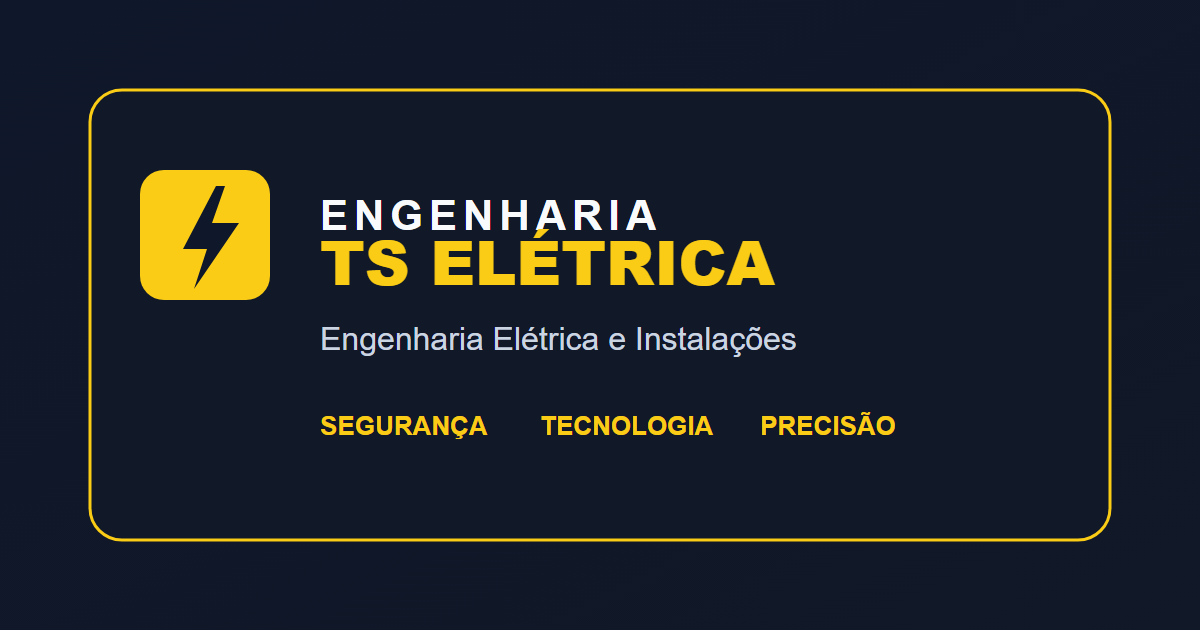
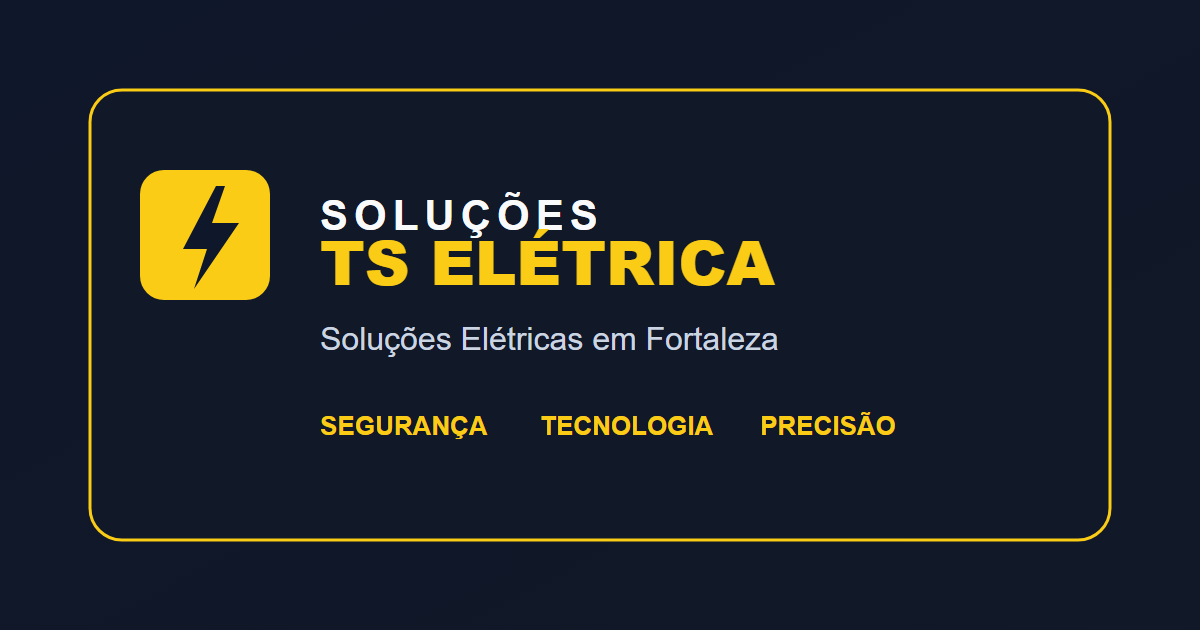
Renomeia titulo/marca para "TS Eletrica | Solucoes Eletricas em Fortaleza"
- Atualiza title, H1, og:title/description, twitter:title/description e manifest
- Atualiza texto da imagem de compartilhamento (og-image) para o novo nome
- Atualiza texto alternativo da logo no header e footer

Changed region(s): [[0.2467, 0.5127, 0.6783, 0.573], [0.2467, 0.3016, 0.555, 0.3921]]

diff --git a/index.html b/index.html
@@ -8,7 +8,7 @@
     <meta name="author" content="TS Elétrica" />
     <meta
       name="description"
-      content="TS Elétrica - Engenharia Elétrica em Fortaleza, CE. Soluções, instalações, manutenção e atendimento elétrico emergencial 24h. Solicite seu orçamento."
+      content="TS Elétrica - Soluções Elétricas em Fortaleza, CE. Instalações, manutenção e atendimento elétrico emergencial 24h. Solicite seu orçamento."
     />
     <meta
       name="keywords"
@@ -16,25 +16,25 @@
     />
     <meta property="og:type" content="website" />
     <meta property="og:locale" content="pt_BR" />
-    <meta property="og:title" content="TS Elétrica | Engenharia Elétrica em Fortaleza, CE" />
+    <meta property="og:title" content="TS Elétrica | Soluções Elétricas em Fortaleza" />
     <meta
       property="og:description"
-      content="TS Elétrica - Engenharia Elétrica em Fortaleza, CE. Soluções, instalações, manutenção e atendimento elétrico emergencial 24h. Solicite seu orçamento."
+      content="TS Elétrica - Soluções Elétricas em Fortaleza, CE. Instalações, manutenção e atendimento elétrico emergencial 24h. Solicite seu orçamento."
     />
     <meta property="og:image" content="https://ts-eletrica.vercel.app/og-image.png" />
     <meta property="og:image:width" content="1200" />
     <meta property="og:image:height" content="630" />
-    <meta property="og:image:alt" content="TS Elétrica - Engenharia Elétrica em Fortaleza" />
+    <meta property="og:image:alt" content="TS Elétrica - Soluções Elétricas em Fortaleza" />
     <meta property="og:site_name" content="TS Elétrica" />
     <meta property="og:url" content="https://ts-eletrica.vercel.app/" />
     <meta name="twitter:card" content="summary_large_image" />
-    <meta name="twitter:title" content="TS Elétrica | Engenharia Elétrica em Fortaleza, CE" />
+    <meta name="twitter:title" content="TS Elétrica | Soluções Elétricas em Fortaleza" />
     <meta
       name="twitter:description"
-      content="TS Elétrica - Engenharia Elétrica em Fortaleza, CE. Soluções, instalações, manutenção e atendimento elétrico emergencial 24h. Solicite seu orçamento."
+      content="TS Elétrica - Soluções Elétricas em Fortaleza, CE. Instalações, manutenção e atendimento elétrico emergencial 24h. Solicite seu orçamento."
     />
     <meta name="twitter:image" content="https://ts-eletrica.vercel.app/og-image.png" />
-    <meta name="twitter:image:alt" content="TS Elétrica - Engenharia Elétrica em Fortaleza" />
+    <meta name="twitter:image:alt" content="TS Elétrica - Soluções Elétricas em Fortaleza" />
     <meta name="theme-color" content="#facc15" />
     <link rel="preconnect" href="https://fonts.googleapis.com" />
     <link rel="preconnect" href="https://fonts.gstatic.com" crossorigin />
@@ -46,7 +46,7 @@
     <link rel="icon" type="image/png" sizes="48x48" href="/favicon-48.png" />
     <link rel="apple-touch-icon" href="/apple-touch-icon.png" />
     <link rel="manifest" href="/site.webmanifest" />
-    <title>TS Elétrica | Engenharia Elétrica em Fortaleza, CE</title>
+    <title>TS Elétrica | Soluções Elétricas em Fortaleza</title>
     <script type="application/ld+json">
       {
         "@context": "https://schema.org",

diff --git a/src/components/Header.tsx b/src/components/Header.tsx
@@ -11,7 +11,7 @@ export function Header() {
         <a href="#inicio" className="flex items-center gap-3" aria-label="Página inicial">
           <img
             src="/logo-ts-eletrica.svg"
-            alt="Logo da TS Elétrica - Engenharia Elétrica em Fortaleza"
+            alt="Logo da TS Elétrica - Soluções Elétricas em Fortaleza"
             className="h-11 w-auto rounded-2xl border border-slate-200 bg-slate-950 object-cover shadow-soft"
           />
           <div className="hidden sm:block">

diff --git a/src/components/Footer.tsx b/src/components/Footer.tsx
@@ -10,7 +10,7 @@ export function Footer() {
             <div className="flex items-center gap-3">
               <img
                 src="/logo-ts-eletrica.svg"
-                alt="Logo da TS Elétrica - Engenharia Elétrica em Fortaleza"
+                alt="Logo da TS Elétrica - Soluções Elétricas em Fortaleza"
                 className="h-12 w-12 rounded-2xl border border-white/10 bg-slate-900 object-cover"
               />
               <div>

diff --git a/src/components/Hero.tsx b/src/components/Hero.tsx
@@ -27,7 +27,7 @@ export function Hero() {
           </div>
 
           <h1 className="mt-6 max-w-3xl text-4xl font-black leading-[1.02] tracking-[-0.06em] text-white sm:text-5xl lg:text-6xl">
-            TS Elétrica | Engenharia Elétrica em Fortaleza
+            TS Elétrica | Soluções Elétricas em Fortaleza
           </h1>
 
           <p className="mt-6 max-w-xl text-lg leading-8 text-slate-300">
